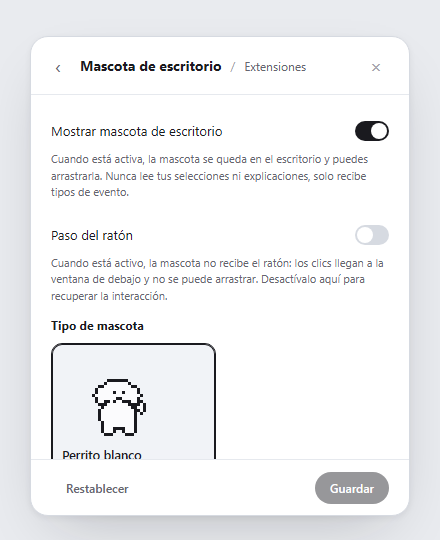
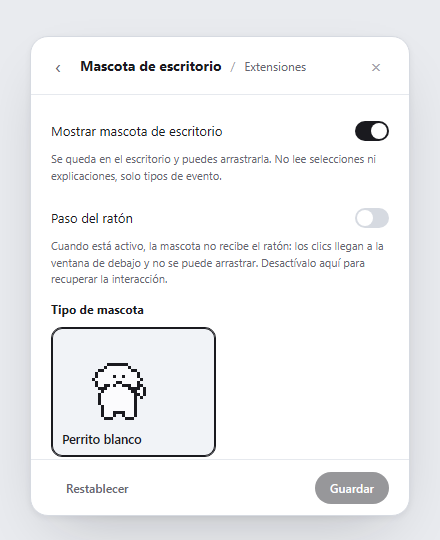
docs: shorten the Spanish pet help text so its card is not clipped
The Spanish desktop pet help paragraph wrapped to three lines, which pushed the Perrito blanco
card below the scroll edge in the README screenshot. Shortened to two lines with the same
meaning: the pet stays on the desktop and can be dragged, and it reads only event types. The
paragraph exists only in ui-prototypes/pet.html, not in the app translations, so no .ts changes.
Only the Spanish pet image was re-rendered.

Changed region(s): [[0.1182, 0.2667, 0.8864, 0.8593]]

diff --git a/ui-prototypes/pet.html b/ui-prototypes/pet.html
@@ -706,7 +706,7 @@ const L = {
         accs: { hat: "シルクハット", beanie: "ニット帽", sprout: "芽", crown: "王冠", glasses: "丸眼鏡", sunglasses: "サングラス", bowtie: "蝶ネクタイ" },
         chars: { dog: "白い子犬" },
         themeDark: "ダーク", themeLight: "ライト" },
-  es: { title: "Mascota de escritorio", crumb: "Extensiones", tog: "Mostrar mascota de escritorio", help: "Cuando está activa, la mascota se queda en el escritorio y puedes arrastrarla. Nunca lee tus selecciones ni explicaciones, solo recibe tipos de evento.",
+  es: { title: "Mascota de escritorio", crumb: "Extensiones", tog: "Mostrar mascota de escritorio", help: "Se queda en el escritorio y puedes arrastrarla. No lee selecciones ni explicaciones, solo tipos de evento.",
         pass: "Paso del ratón", passHelp: "Cuando está activo, la mascota no recibe el ratón: los clics llegan a la ventana de debajo y no se puede arrastrar. Desactívalo aquí para recuperar la interacción.",
         pick: "Tipo de mascota", stage: "Vista previa", act: "Acciones", acc: "Accesorios",
         defaults: "Restablecer", save: "Guardar", saved: "Guardado", reset: "Valores restablecidos",
